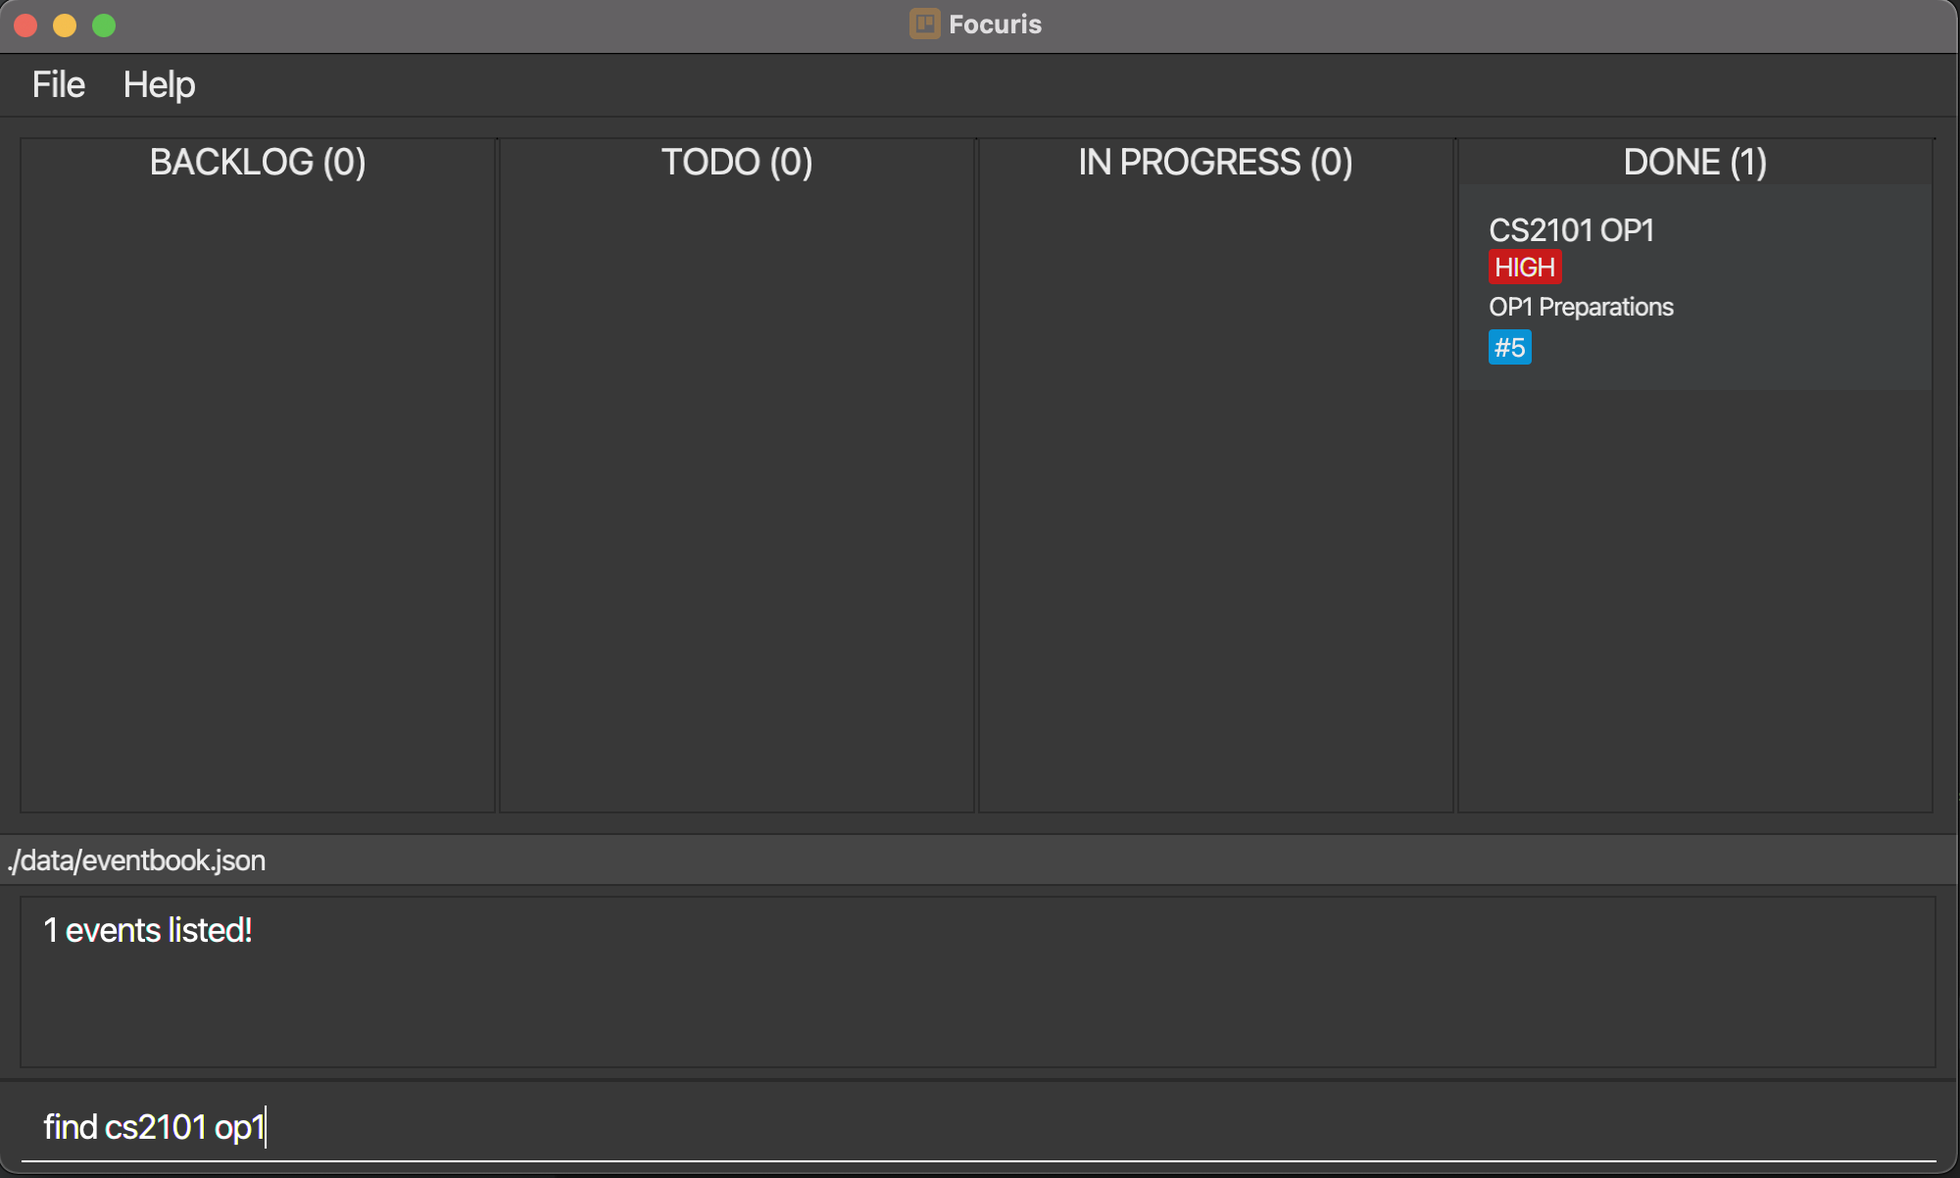
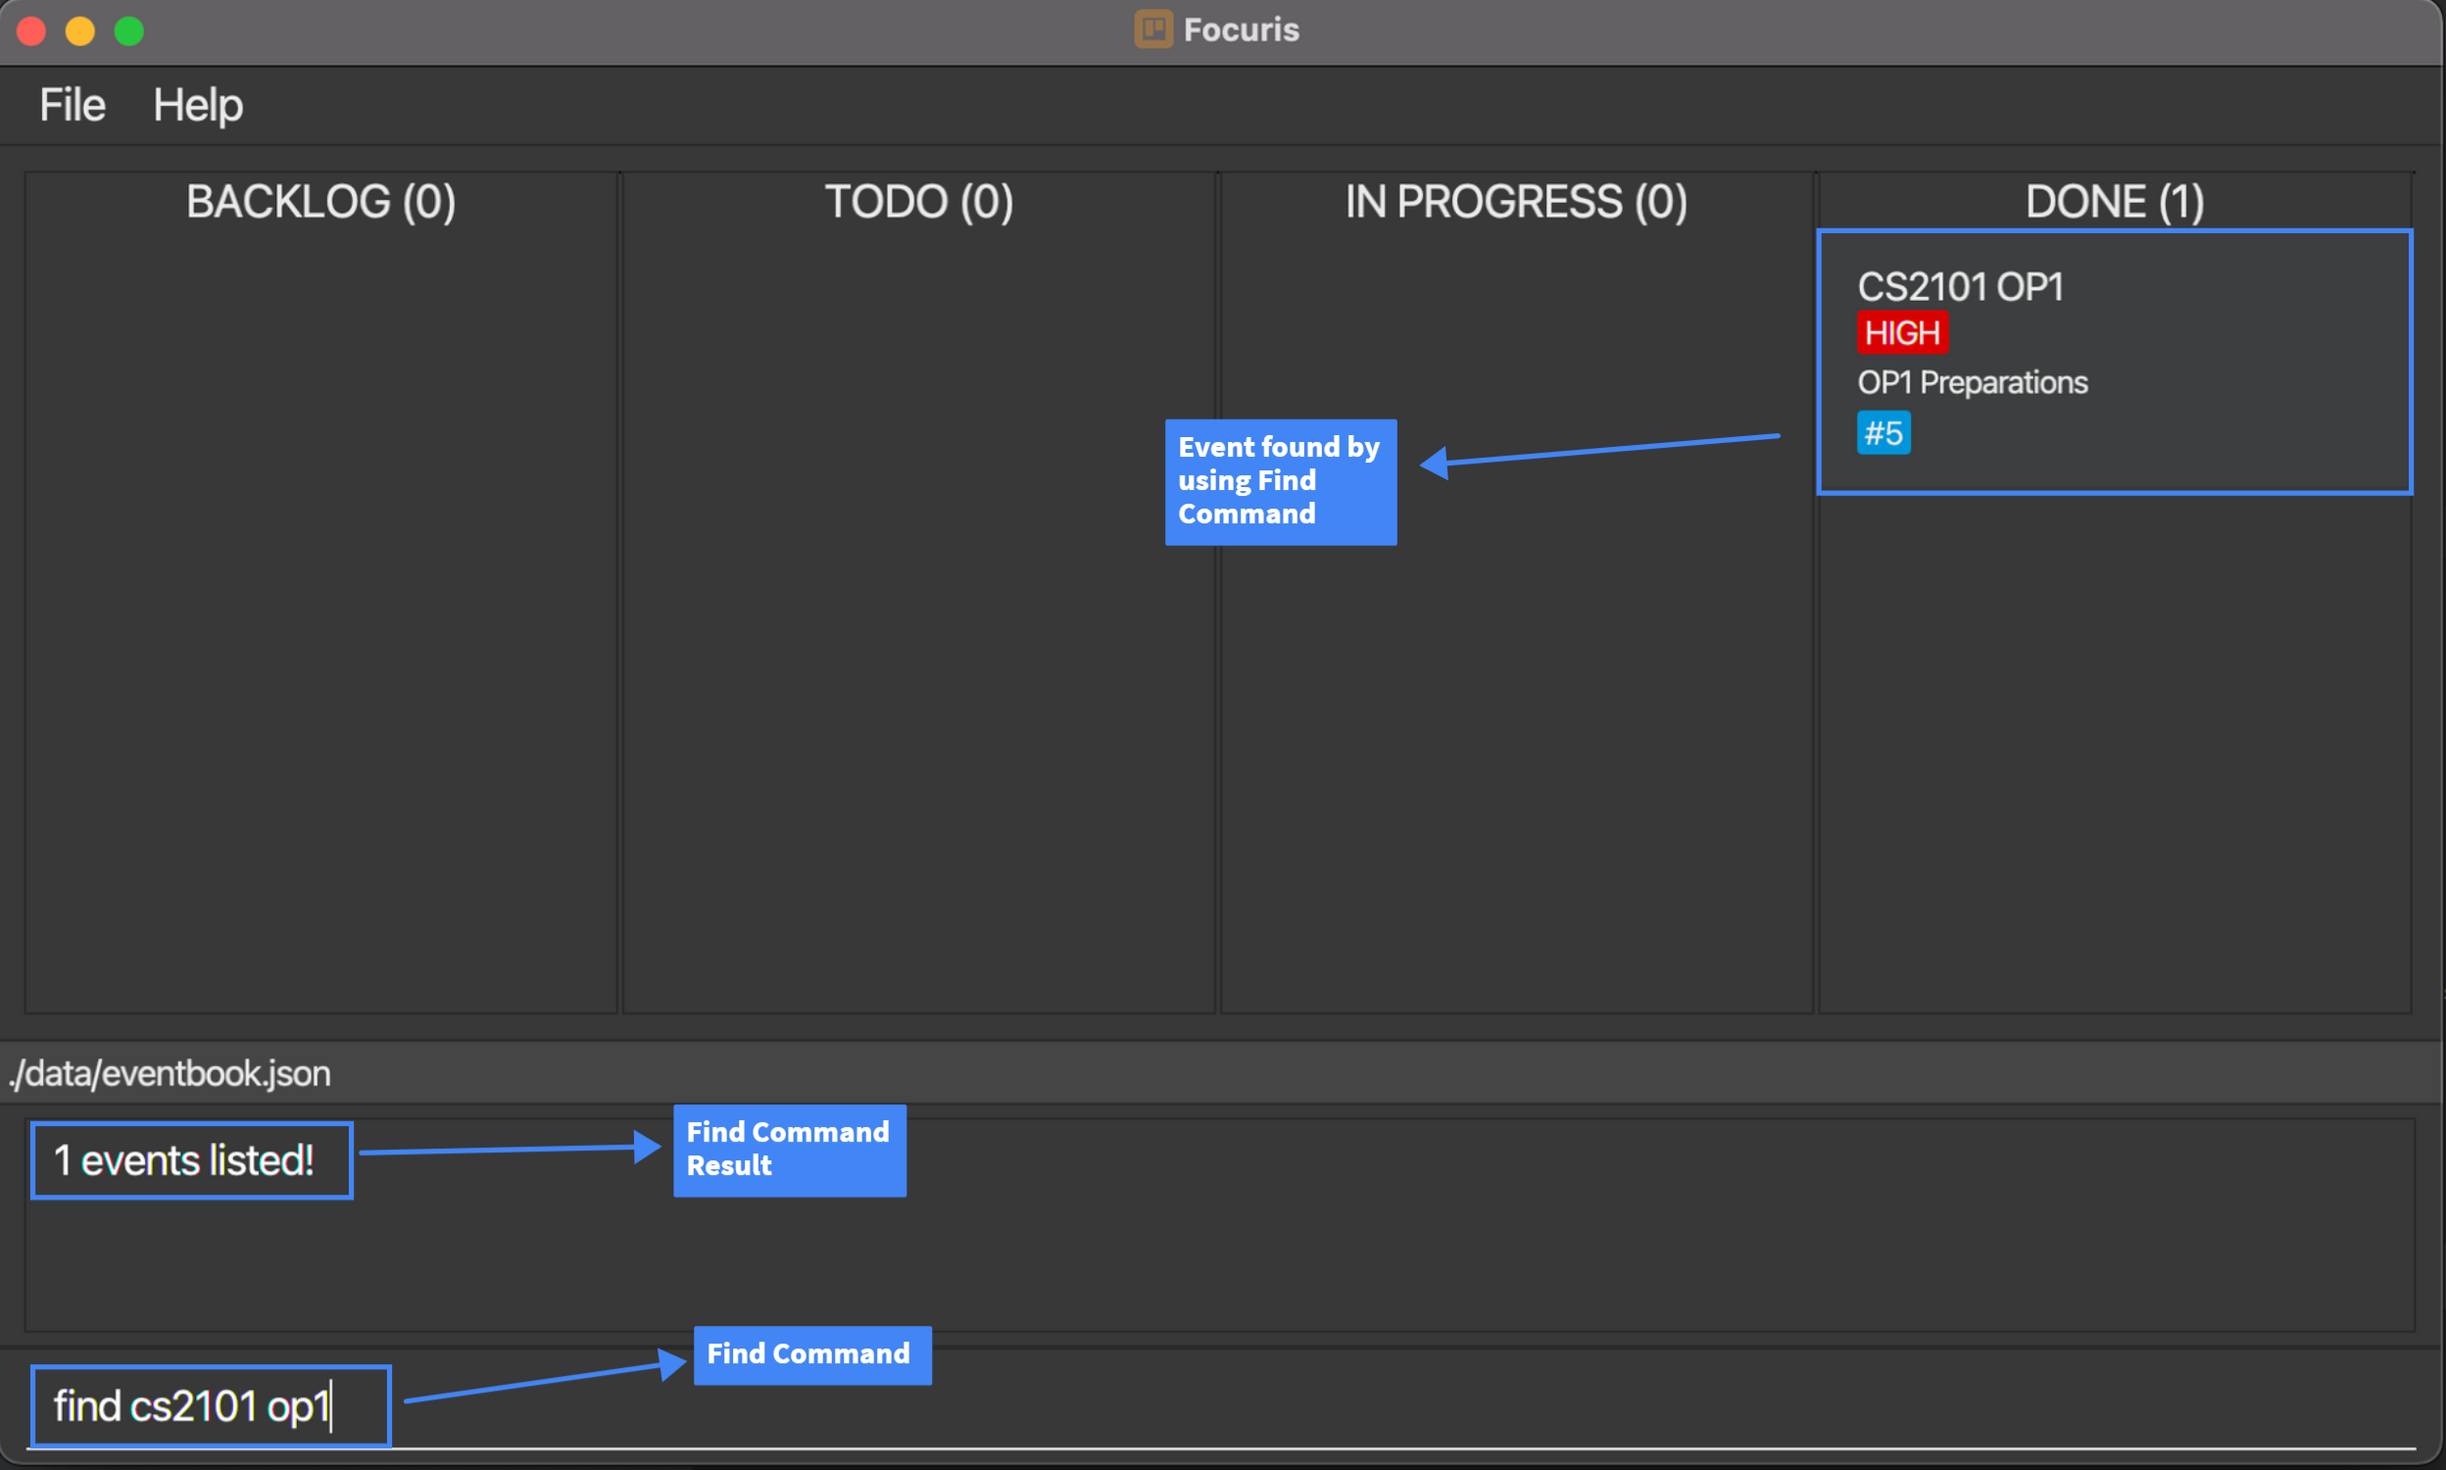
Add annotations to some images

diff --git a/docs/UserGuide.md b/docs/UserGuide.md
@@ -429,13 +429,9 @@ list
 
 #### Example
 
-![after find screenshot](./images/user-guide/find-after-execute.png)
-
-**Figure 10. After execution of sample find command**
-
 ![list example](./images/user-guide/list-example-1.png)
 
-**Figure 11. Execution of list command after find in Figure 10**
+**Figure 11. Execution of list command**
 
 [Return to Table of Contents](#table-of-contents)
 
